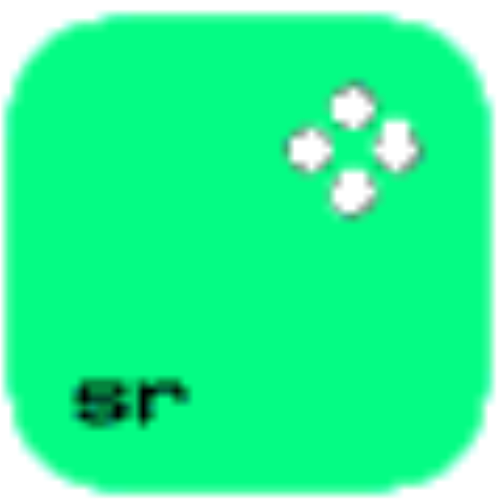
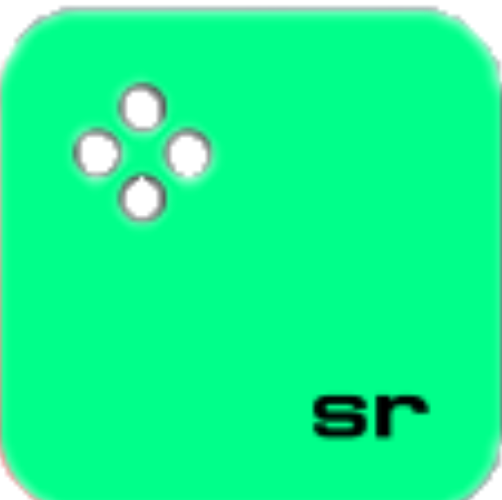
last commit

diff --git a/index.html b/index.html
@@ -50,10 +50,10 @@
 
             <div class="about-img">
                 <img class="flashing-image" 
-                src="downloads.png" alt="Flashing Image">
+                src="IMG_20240114_093838_519899.jpg" alt="Berry Courage">
             </div>
             <div class="about-text">
-                <h2>About<span>Me</span></h2>
+                <h2>About <span>Me</span></h2>
                 <h4>Full Stack Developer!</h4>
                 <p>"I am a skilled web designer with over 3 years of experience in the industry. My passion lies in creating 
                      captivating website designs and implementing them through frontend development. I take pride in staying 
@@ -73,7 +73,7 @@
     <section>
         <div class="services" id="services">
             <div class="container">
-                <h1 class="sub-title">My<span>Services</span></h1>
+                <h1 class="sub-title">My <span>Services</span></h1>
                 <div class="services-list">
                     <div>
[1 lines of base64/hex data omitted]
@@ -81,35 +81,34 @@
                         <h2>UI/UX Design</h2>
                         <p>It is very painful for the customer to be able to follow the adipiscing process. Unless, in forgiveness from the pleasures of the 
                             smallest pleasure of the body? Is it bound to be borne with hatred?</p>
-                             <a href="#" class="read">learn more</a>
+                             <a href="#" class="read" style="--i:11">learn more</a>
                     </div>
                     <div>
[1 lines of base64/hex data omitted]
                         <h2>UI/UX Design</h2>
                         <p>It is very painful for the customer to be able to follow the adipiscing process. Unless, in forgiveness from the pleasures of the 
                             smallest pleasure of the body? Is it bound to be borne with hatred?</p>
-                             <a href="#" class="read">learn more</a>
+                             <a href="#" class="read" style="--i:12">learn more</a>
                     </div>
                     <div>
[1 lines of base64/hex data omitted]
                         <h2>UI/UX Design</h2>
                         <p>It is very painful for the customer to be able to follow the adipiscing process. Unless, in forgiveness from the pleasures of the 
                             smallest pleasure of the body? Is it bound to be borne with hatred?</p>
-                            <a href="#" class="read">learn more</a>
+                            <a href="#" class="read" style="--i:13">learn more</a>
                     </div>
                 </div>
             </div>
         </div>
     </section>
-    <h1 class="sub-title">My <span>Skills</span></h1>
-
+    <h1 class="sub-title" id="Skills">My <span>Skills</span></h1>
     <section>
-        <div class="container1" id="Skills">
+        <div class="container1">
             <h1 class="heading1"> Technical Skills</h1><br>
             <div class="Technical-bars">
                 <div class="bar"><i style="color: #c95d2e;" class='bx bxl-html5'></i>
                     <div class="info">
[2 lines of base64/hex data omitted]
                     </div>
                     <div class="progress-line html">
                         <span></span>
@@ -117,7 +116,7 @@
                 </div>
                 <div class="bar"><i style="color: #147bbc;" class='bx bxl-css3'></i>
                     <div class="info">
[2 lines of base64/hex data omitted]
                     </div>
                     <div class="progress-line css">
                         <span></span>
@@ -125,7 +124,7 @@
                 </div>
                 <div class="bar"><i style="color: #c9b72e;" class='fab fa-javascript'></i></i>
                     <div class="info">
[2 lines of base64/hex data omitted]
                     </div>
                     <div class="progress-line javascript">
                         <span></span>
@@ -133,7 +132,7 @@
                 </div>
                 <div class="bar"><i style="color: #c32ec9;" class='fab fa-python'></i>
                     <div class="info">
[2 lines of base64/hex data omitted]
                     </div>
                     <div class="progress-line python">
                         <span></span>
@@ -141,7 +140,7 @@
                 </div>
                 <div class="bar"><i  style="color: #69bcbc;"class='fab fa-react'></i>
                     <div class="info">
[2 lines of base64/hex data omitted]
                     </div>
                     <div class="progress-line react">
                         <span></span>
@@ -150,7 +149,7 @@
             </div>
         </div>
         <div class="container1">
-            <h1 class="heading1">ProfessionalSkills</h1><br>
+            <h1 class="heading1">Professional Skills</h1><br>
                 <div class="radial-bars">
 
                     <svg x="0px" y="0px" viewBox="0 0 200 200">
@@ -185,7 +184,7 @@
                         <circle class="progress-bar" cx="100" cy="100" r="80"></circle>
                         <circle class="path path-4" cx="100" cy="100" r="80"></circle>
                     </svg>
-                    <div class="percentage">85%</div>
+                    <div class="percentage"><span>85%</span></div>
                     <div class="text">TeamWork</div>
                 </div>
         </div>
@@ -197,31 +196,40 @@
 
             <div class="portfolio-content">
                 <div class="row">
+                    <div class="text">
+                        <p>Click On The Image</p>
+                    </div>
                     <img src="download (3).jpg">
                     <div class="layer">
                         <h5>UI/UX Design</h5>
                         <p>It is very painful for the customer to be able to follow the adipiscing process. He is especially attached to pleasures, 
-                            not to lust, because, if he seeks, the body hinders them from occurring; We can leave the services of pleasure to him.</p>
+                            not to lost, because, if he seeks, the body hinders them from occurring; We can leave the services of pleasure to him.</p>
 
[1 lines of base64/hex data omitted]
                     </div>
                 </div>
                 <div class="row">
+                    <div class="text">
+                        <p>Click On The Image</p>
+                    </div>
                     <img src="Screenshot (589).png">
                     <div class="layer">
                         <h5>UI/UX Design</h5>
                         <p>It is very painful for the customer to be able to follow the adipiscing process. He is especially attached to pleasures, 
-                            not to lust, because, if he seeks, the body hinders them from occurring; We can leave the services of pleasure to him.</p>
+                            not to lost, because, if he seeks, the body hinders them from occurring; We can leave the services of pleasure to him.</p>
 
[1 lines of base64/hex data omitted]
                     </div>
                 </div>
                 <div class="row">
+                    <div class="text">
+                        <p>Click On The Image</p>
+                    </div>
                     <img src="Screenshot (590).png">
                     <div class="layer">
                         <h5>UI/UX Design</h5>
                         <p>It is very painful for the customer to be able to follow the adipiscing process. He is especially attached to pleasures, 
-                            not to lust, because, if he seeks, the body hinders them from occurring; We can leave the services of pleasure to him.</p>
+                            not to lost, because, if he seeks, the body hinders them from occurring; We can leave the services of pleasure to him.</p>
 
[1 lines of base64/hex data omitted]
                     </div>
@@ -235,10 +243,11 @@
     <div class="contact-text">
         <h2>Contact <span>Me</span></h2>
         <h4>Let's Work Together</h4>
-        <p>It is very painful for the customer to be able to follow the adipiscing process. Exercise in but, if you see some difficulties, I will open a large one that is repulsed for us by enduring hatred or laborious consequences, but the pains are repelled by birth!</p>
+        <p>It is very painful for the customer to be able to follow the adipiscing process. Exercise in but, if you see some difficulties, 
+            I will open a large one that is repulsed for us by enduring hatred or laborious consequences, but the pains are repelled by birth!</p>
             <div class="contact-list">
[4 lines of base64/hex data omitted]
             </div>
             <div class="home-sci">
[1 lines of base64/hex data omitted]
@@ -251,24 +260,19 @@
 
     <div class="contact-form">
         <form action="">
-            <input type="" placeholder="Enter Your Name" required>
-            <input type="email" id="email"  placeholder="Enter Your Email" required>
+            <input style="border: 3px solid #ff004f; color: #0ef;" type="" id="" placeholder="Enter Your Name" required>
+            <input style="border: 3px solid #ff004f; color: #0ef;" type="email" id="email"  placeholder="Enter Your Email" required>
 
-            <input type="" placeholder="Enter Your Subject" required>
-            <textarea name="" id="" cols="40" rows="10" placeholder="Enter Your Message                                                                       (Optional)"></textarea>
+            <input    style="border: 3px solid #ff004f; color: #0ef;" type="" placeholder="Enter Your Subject" required>
+            <textarea style="border: 3px solid #0ef;" name="" id="" cols="40" rows="10" placeholder="Enter Your Message"></textarea>
             <input type="submit" value="Send" class="send">
         </form>
-    </div>
+    </div><br>
 </section>
 <div class="last-text">
     <p>Developed with love by Berry Courage © 2024</p>
 </div>
[1 lines of base64/hex data omitted]
-
-
-
-
-
 
 
     <script src="main.js"></script>

diff --git a/stylesheet.css b/stylesheet.css
@@ -213,9 +213,11 @@ body
     display: inline-flex;
     justify-content: center;
     align-items: center;
-    margin-left: 80px;
-    font-size: 500px;
-    width: 400px;
+    margin-left: 20px;
+    font-size: 50px;
+    width: 200px;
+    border-radius: 50%;
+    transition: 2s;
     animation: flash 2s infinite;
 }
 @keyframes flash{
@@ -269,7 +271,6 @@ body
 .sub-title {
     text-align: center;
     font-size: 50px;
-    padding-bottom: 70px;
 }
 .sub-title span{
     color: #0ef;
@@ -332,8 +333,8 @@ body
     text-decoration: none;
     font-weight: 600;
     opacity: 0;
-    animation: slideTop 1s ease forwards ;
-    animation-delay: 2s;
+    animation: flash 2s infinite;
+    animation-delay: calc(.2s * var(--i));
     box-shadow: 0 0 5px #0ef,
     0 0 25px #0ef;
 }
@@ -354,7 +355,7 @@ section{
 .container1{
     width: 50%;
     display: grid;
-   grid-template-columns: repeat(2, 1fr); 
+    grid-template-columns: repeat(2, 1fr); 
     align-items: center;
     gap: 0.1rem;
     width: 600px;
@@ -365,8 +366,9 @@ section{
 .heading1{
     text-align: center;
     text-decoration: underline;
-    text-underline-offset: 10px;
-    text-decoration-thickness: 10px;
+    text-decoration-style: double;
+    text-underline-offset: 2px;
+    text-decoration-thickness: 2px;
     margin-bottom: 50px;
     position: relative;
 }
@@ -396,7 +398,7 @@ section{
     font-size: 17px;
     font-weight: 500;
     opacity: 0;
-    animation: FadeOut .2s ease forwards;
+    animation: flash 2s infinite;
     animation-delay: calc(.2s * var(--i));
 }
 .Technical-bars .bar .progress-line{
@@ -607,12 +609,26 @@ section{
     align-items: center;
     padding-left: 80px;
     padding-right: 80px;
+
 }
 .row{
     position: relative;
     overflow: hidden;
     border-radius: 20px;
     cursor: pointer;
+}
+.row .text{
+    position: absolute;
+    color: chocolate;
+    text-align: center;
+    font-size: 40px;
+    font-weight: 600;
+    margin-top: 80px;
+    margin-bottom: 80px;
+    align-items: center;
+}
+.row .text p{
+    text-align: center;
 }
 .row img {
     width: 100%;
@@ -685,7 +701,6 @@ section{
 }
 .contact-text h2 span{
     color: cyan;
-    text-shadow: 0 0 4px rgba(0, 0, 255, 0.419);
 }
 .contact-text h4{
     margin: 15px 0;
@@ -714,6 +729,7 @@ section{
 }
 .contact-list li img{
     animation: flash .8s infinite;
+    animation-delay: calc(.1s * var(--i));
 }
 
 .contact-list img{
@@ -761,11 +777,17 @@ section{
     width: 90%;
     padding: 18px;
     background: #555557;
-    color: #0ef;
+    color: #ff004f;
     font-size: 1rem;
     font-weight: 600;
     margin-bottom: 0.5rem;
     border-radius: 0.5rem;
+}
+.contact-form form input::placeholder{
+    color: #ff004f;
+}
+.contact-form,form textarea::placeholder{
+    color: #0ef;
 }
 .contact-form textarea{
     resize: none;
@@ -804,7 +826,7 @@ section{
     font-size: 25px;
 }
 .top {
-    position: fixed;
+    position:fixed;
     bottom: 2.1rem;
     right: 2,1rem;
 }
@@ -817,6 +839,7 @@ section{
     padding: 80%;
     align-content: center;
     border-radius: 1.2rem;
+    animation: flash 2s ease-in;
 
 }
 
